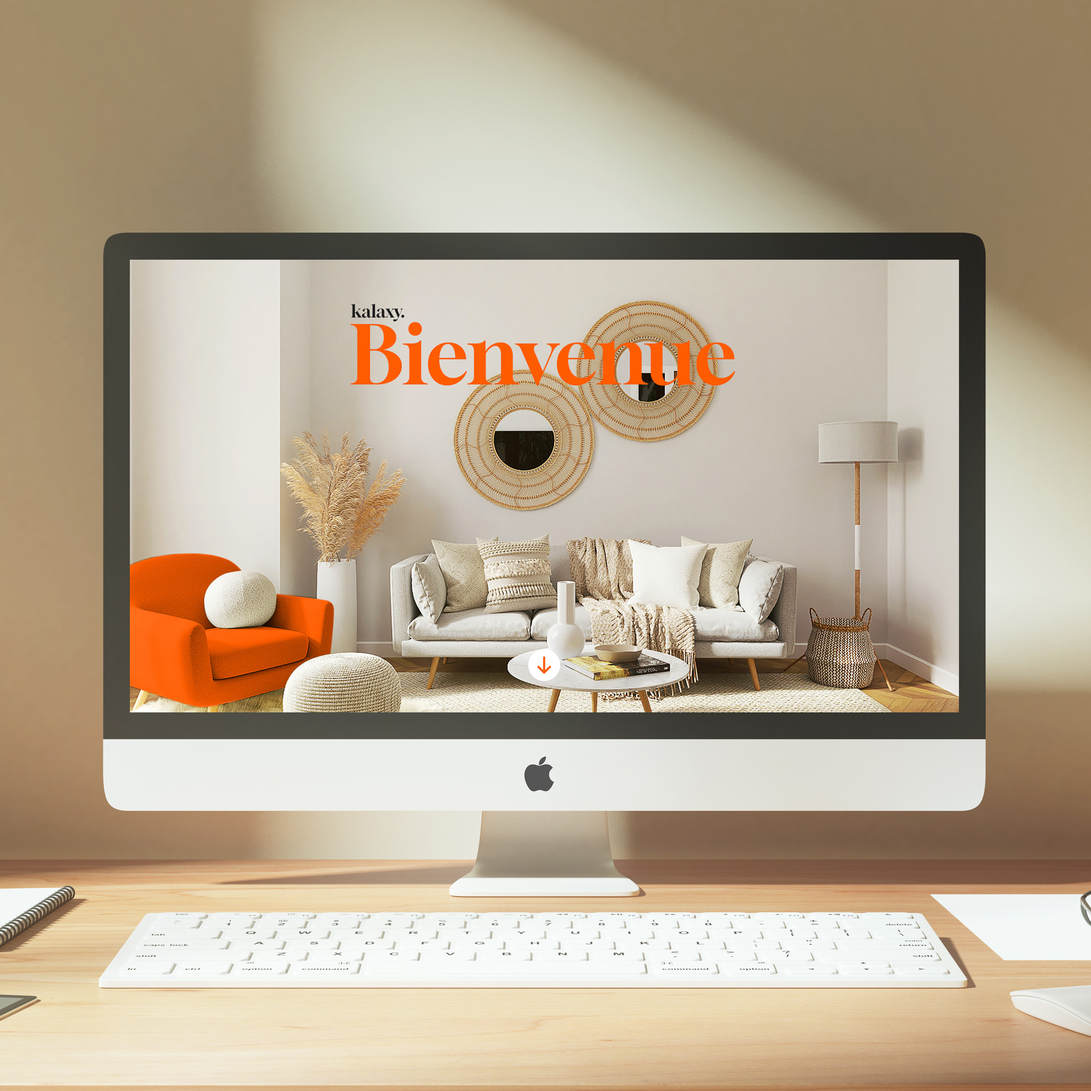
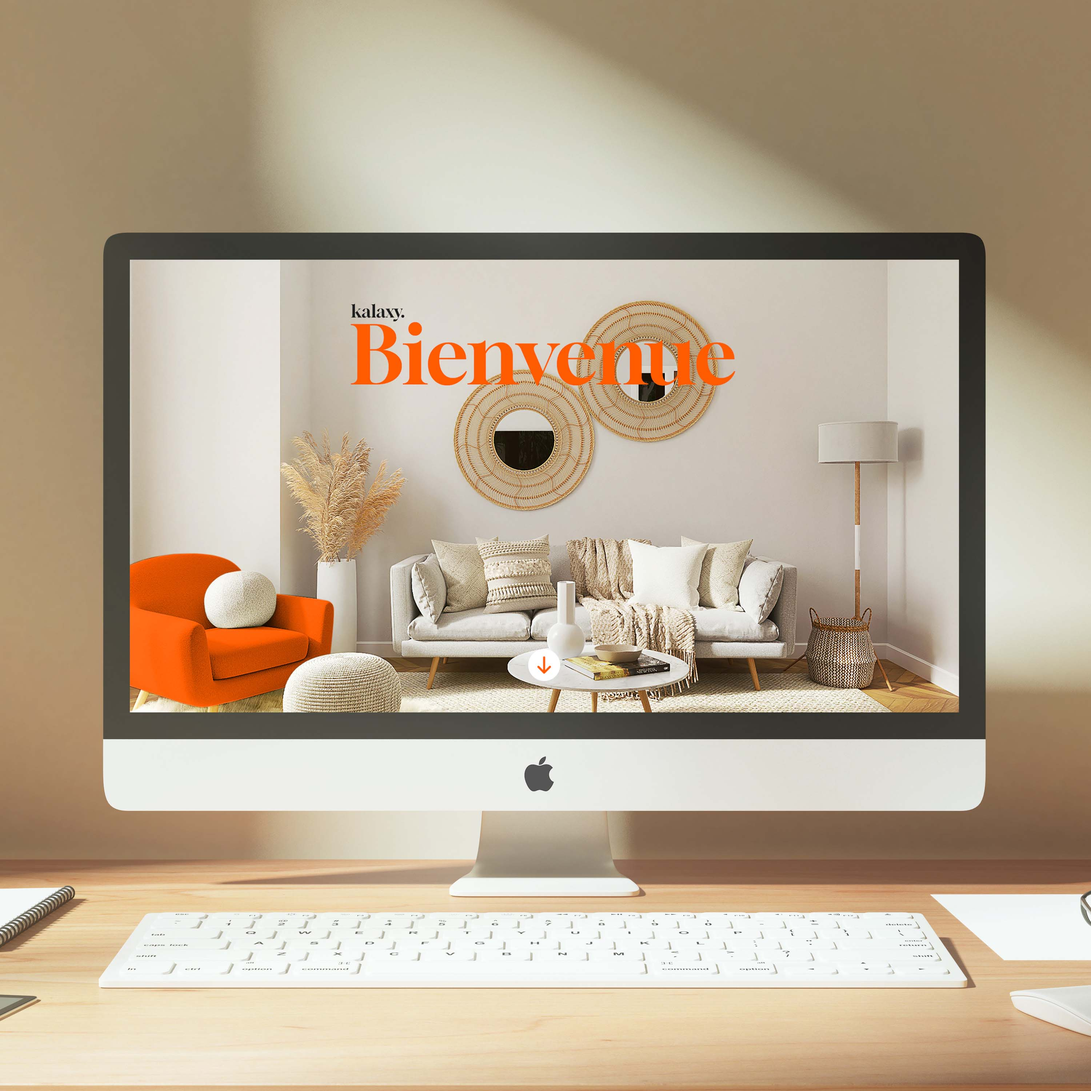
resize images

diff --git a/src/components/Projects.vue b/src/components/Projects.vue
@@ -28,7 +28,7 @@
                 </div>
             </div>
             <div class="box projet">
-                <img src="@/assets/project_extension.png" alt="Extension navigateur" class="image-projet">
+                <img src="@/assets/project_extension.jpg" alt="Extension navigateur" class="image-projet">
                 <div class="description-projet">
                     <h2>Extension navigateur</h2>
                     <h3>HTML, CSS, Javascript</h3>
@@ -43,7 +43,7 @@
                 </div>
             </div>
             <div class="box projet">
-                <img src="@/assets/project_dataviz.png" alt="Datavisualisation & API" class="image-projet">
+                <img src="@/assets/project_dataviz.jpg" alt="Datavisualisation & API" class="image-projet">
                 <div class="description-projet">
                     <h2>Datavisualisation & API</h2>
                     <h3>HTML, CSS, Javascript</h3>
@@ -59,7 +59,7 @@
                 </div>
             </div>
             <div class="box projet">
-                <img src="@/assets/project_pico.png" alt="Jeu Pico-8" class="image-projet">
+                <img src="@/assets/project_pico.jpg" alt="Jeu Pico-8" class="image-projet">
                 <div class="description-projet">
                     <h2>Jeu vidéo 2D</h2>
                     <h3>Pico-8, Lua</h3>
